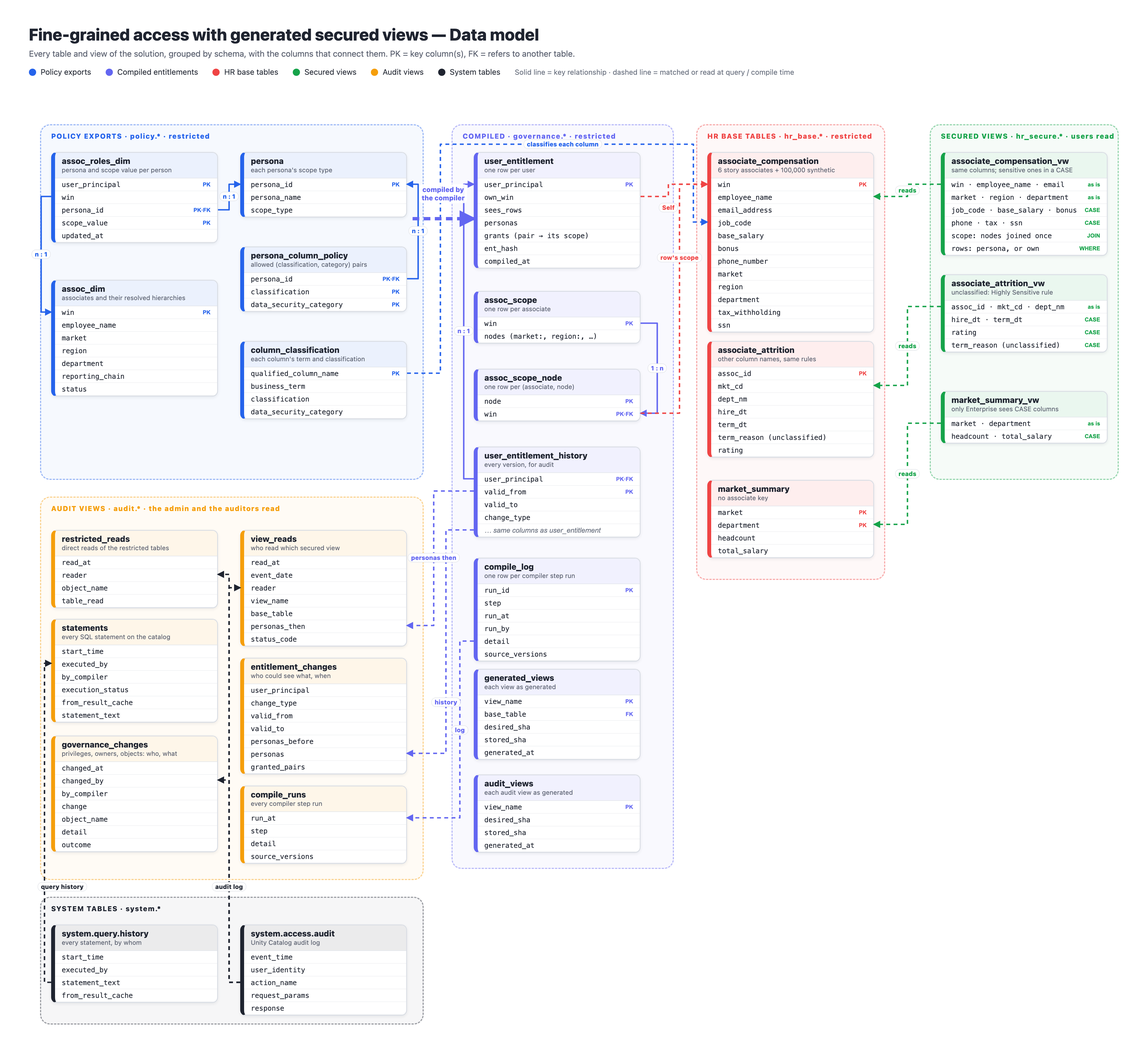
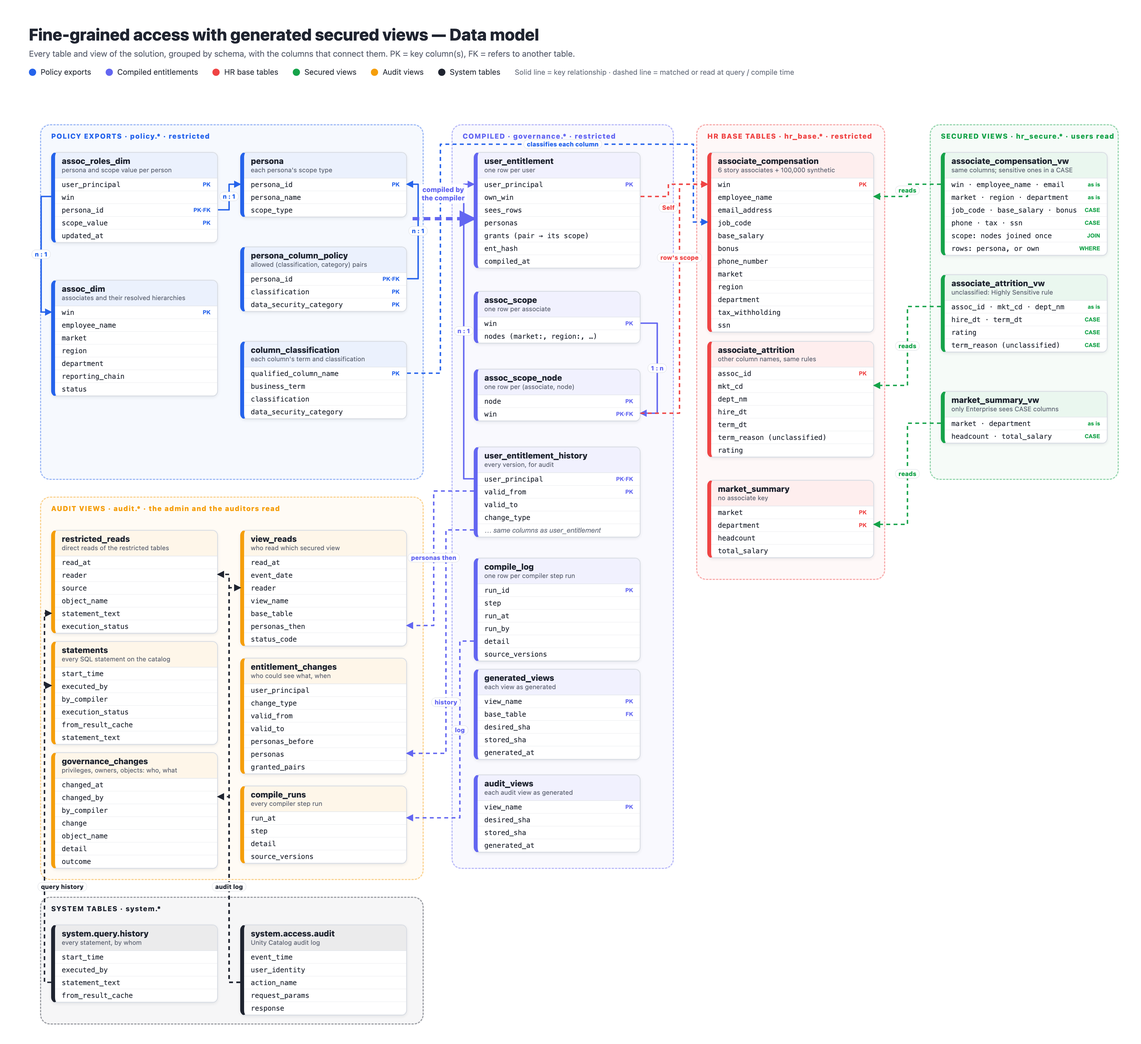
Audit layer: code-review fixes, docs, diagrams, test record
- Audit views: string and number literals in statement text and error
  messages are redacted by default (new setting audit_statement_text);
  query-history matching ignores backticks and needs catalog.schema;
  restricted_reads leaves out queries of the audit schema; NULL-safe
  exclusions; personas_then is the last entitlement compiled before the read.
- deploy stops with the GRANTs a metastore admin must run when the
  compiler cannot read the system tables.
- A local `all` run still runs the guard when an earlier step fails.
- tests/test_audit.py: comment markers, a redaction check and a negative
  check (15 checks with a Real-Time warehouse).
- Docs, diagrams 01/02, config.example.json; Appendix E test record.

Changed region(s): [[0.0312, 0.5606, 0.1559, 0.8408]]

diff --git a/compiler/fgac_compiler.py b/compiler/fgac_compiler.py
@@ -404,19 +404,30 @@ CHANGE_ACTIONS = ("updatePermissions", "createCatalog", "updateCatalog", "delete
 def audit_views(me):
     """{view: SQL} for the audit schema. `me` is the compiler's identity (its own changes are flagged by_compiler).
     Every view keeps the system table's date (event_date) or time column: filter on it, the audit log is large."""
-    c = lit(C)
+    c, m = lit(C), lit(me)
     secure, restricted = f"{c}.{SECURE}.", [f"{c}.{s}." for s in (BASE, config.EXPORTS, config.GOV)]
     # a read: Unity Catalog logs a READ snapshot when the warehouse fetches a table's credentials, with the securable the
-    # query named (the secured view, or the table itself when someone reads it directly). A result-cache answer reads
-    # no table, and a repeated read can reuse the credentials fetched shortly before: the query history (statements)
-    # has every statement
+    # query named (the secured view, or the table itself when someone reads it directly), however the query spelled
+    # it. A result-cache answer reads no table, and a repeated read can reuse the credentials fetched shortly before:
+    # the query history (statements) has every statement that names the catalog
     read = f"""FROM system.access.audit a
 LATERAL VIEW explode(from_json(a.request_params.securables, 'ARRAY<STRUCT<type: STRING, full_name: STRING>>')) s AS o
 WHERE a.service_name = 'unityCatalog' AND a.action_name = 'metadataAndPermissionsSnapshot'
   AND a.request_params.operation = 'READ' AND contains(a.request_params.securables, '{c}.')"""
+    # the query history only has the text: a statement names the catalog as catalog.schema (backticks removed). One
+    # that relies on USE CATALOG or the editor's catalog picker is not matched (its reads are in the audit log anyway)
+    norm = "replace(lower(h.statement_text), '`', '')"
+    names_catalog = f"contains({norm}, '{c.lower()}.')"
+
+    def text(col):
+        """SQL text and error messages can hold values someone typed (an INSERT's literals, a WHERE ssn = '...'
+        probe): unless audit_statement_text is "full", string and number literals are replaced by ?"""
+        if config.AUDIT_STATEMENT_TEXT == "full":
+            return col
+        return f"""regexp_replace(regexp_replace({col}, r"'([^']|'')*'", "'?'"), r"\\b[0-9]+([.][0-9]+)?\\b", "?")"""
     actions = ", ".join(f"'{x}'" for x in CHANGE_ACTIONS)
     views = {
-        # with the personas the reader held at that moment (the entitlement history version open then)
+        # with the personas the reader held then: the last entitlement version compiled before the read
         "view_reads": f"""SELECT r.read_at, r.event_date, r.reader, r.view_name, r.base_table, h.personas AS personas_then,
        r.status_code, r.workspace_id, r.source_ip_address, r.user_agent, r.request_id
 FROM (SELECT a.event_time AS read_at, a.event_date, a.user_identity.email AS reader, o.full_name AS view_name,
@@ -424,30 +435,31 @@ FROM (SELECT a.event_time AS read_at, a.event_date, a.user_identity.email AS rea
              a.workspace_id, a.source_ip_address, a.user_agent, a.request_id
       {read}
         AND startswith(o.full_name, '{secure}')) r
-LEFT JOIN {G}.user_entitlement_history h ON h.user_principal = lower(r.reader)
-  AND r.read_at >= h.valid_from AND (h.valid_to IS NULL OR r.read_at < h.valid_to)""",
-        # anyone but the compiler, from both records: the audit log's reads, and every statement (also refused ones)
-        # that names a restricted schema
+LEFT JOIN {G}.user_entitlement_history h ON h.user_principal = lower(r.reader) AND h.valid_from <= r.read_at
+QUALIFY row_number() OVER (PARTITION BY r.request_id, r.view_name ORDER BY h.valid_from DESC NULLS LAST) = 1""",
+        # anyone but the compiler, from both records: the audit log's reads, and every statement (refused ones too)
+        # that names a restricted schema; the auditors' own queries of the audit views are left out
         "restricted_reads": f"""SELECT a.event_time AS read_at, a.event_date, a.user_identity.email AS reader, 'audit log' AS source,
        o.full_name AS object_name, CAST(NULL AS STRING) AS statement_text, CAST(NULL AS STRING) AS execution_status,
        a.workspace_id, a.request_id AS id
 {read}
   AND ({' OR '.join(f"startswith(o.full_name, '{r}')" for r in restricted)})
-  AND a.user_identity.email <> '{lit(me)}'
+  AND a.user_identity.email IS DISTINCT FROM '{m}'
 UNION ALL
-SELECT h.start_time, CAST(h.start_time AS DATE), h.executed_by, 'query history', CAST(NULL AS STRING), h.statement_text,
-       h.execution_status, h.workspace_id, h.statement_id
+SELECT h.start_time, CAST(h.start_time AS DATE), h.executed_by, 'query history', CAST(NULL AS STRING),
+       {text('h.statement_text')}, h.execution_status, h.workspace_id, h.statement_id
 FROM system.query.history h
-WHERE h.executed_by <> '{lit(me)}'
-  AND ({' OR '.join(f"contains(lower(h.statement_text), '{r.lower()}')" for r in restricted)})""",
-        "statements": f"""SELECT h.start_time, h.end_time, h.executed_by, h.executed_as, h.executed_by = '{lit(me)}' AS by_compiler,
-       h.statement_type, h.execution_status, h.error_message, h.from_result_cache, h.cache_origin_statement_id,
-       h.produced_rows, h.total_duration_ms, h.compute.warehouse_id AS warehouse_id, h.workspace_id,
-       h.client_application, h.statement_id, h.statement_text
+WHERE h.executed_by IS DISTINCT FROM '{m}'
+  AND ({' OR '.join(f"contains({norm}, '{r.lower()}')" for r in restricted)})
+  AND NOT contains({norm}, '{c.lower()}.{AUDIT}.')""",
+        "statements": f"""SELECT h.start_time, h.end_time, h.executed_by, h.executed_as, coalesce(h.executed_by = '{m}', false) AS by_compiler,
+       h.statement_type, h.execution_status, {text('h.error_message')} AS error_message, h.from_result_cache,
+       h.cache_origin_statement_id, h.produced_rows, h.total_duration_ms, h.compute.warehouse_id AS warehouse_id,
+       h.workspace_id, h.client_application, h.statement_id, {text('h.statement_text')} AS statement_text
 FROM system.query.history h
-WHERE contains(lower(h.statement_text), '{c.lower()}')""",
-        "governance_changes": f"""SELECT changed_at, event_date, changed_by, changed_by = '{lit(me)}' AS by_compiler, change, object_name, detail,
-       CASE WHEN status_code = 200 THEN 'done' WHEN status_code IN (401, 403) THEN 'denied' ELSE 'failed' END AS outcome,
+WHERE {names_catalog}""",
+        "governance_changes": f"""SELECT changed_at, event_date, changed_by, coalesce(changed_by = '{m}', false) AS by_compiler, change, object_name,
+       detail, CASE WHEN status_code = 200 THEN 'done' WHEN status_code IN (401, 403) THEN 'denied' ELSE 'failed' END AS outcome,
        error_message, workspace_id, source_ip_address, request_id
 FROM (
   SELECT a.event_time AS changed_at, a.event_date, a.user_identity.email AS changed_by, a.response.status_code,
@@ -470,7 +482,7 @@ FROM (
           AND NOT (action_name = 'createStagingTable' AND response.status_code = 200)) a)
 WHERE (object_name = '{c}' OR startswith(object_name, '{c}.'))
   -- the compiler's own data writes and staging tables are in governance.compile_log; its grants, owners and views stay
-  AND NOT (changed_by = '{lit(me)}' AND (change = 'alter or write' OR contains(object_name, '._stage_')))""",
+  AND NOT (coalesce(changed_by = '{m}', false) AND (change = 'alter or write' OR contains(object_name, '._stage_')))""",
         "entitlement_changes": f"""SELECT user_principal, change_type, valid_from, valid_to, valid_to IS NULL AS is_current,
        personas, lag(personas) OVER w AS personas_before,
        array_sort(map_keys(grants)) AS granted_pairs, lag(array_sort(map_keys(grants))) OVER w AS granted_pairs_before,
@@ -487,7 +499,7 @@ def generate_audit():
     """The audit schema holds exactly the audit views, each as generated (recreated when its SQL changes or it was
     edited); the auditors may read it. A view that can't be created (for example the compiler can't read a system
     table) is reported and the job fails; the others are in place."""
-    t0, versions = time.time(), source_versions()
+    t0 = time.time()
     ensure_tables()
     me = q("SELECT session_user()")[0][0]
     q(f"""CREATE SCHEMA IF NOT EXISTS {C}.{AUDIT}
@@ -523,7 +535,7 @@ COMMENT 'Generated audit views over the system tables and the governance history
     for v, kind in q(f"SELECT table_name, table_type FROM {C}.information_schema.tables WHERE table_schema = '{AUDIT}'"):
         if kind == "VIEW" and v in want:
             continue
-        what = {"VIEW": "VIEW", "METRIC_VIEW": "VIEW", "MATERIALIZED_VIEW": "MATERIALIZED VIEW"}.get(kind, "TABLE")
+        what = {"VIEW": "VIEW", "METRIC_VIEW": "VIEW", "MATERIALIZED_VIEW": "MATERIALIZED VIEW", "STREAMING_TABLE": "TABLE"}.get(kind, "TABLE")
         if drop(f"DROP {what} {C}.{AUDIT}.`{v}`", v, failed, AUDIT, "audit_views"):
             print(f"audit: WARNING dropped {AUDIT}.{v} ({kind}): only the audit views may be in {AUDIT}")
     for f, in q(f"SELECT specific_name FROM {C}.information_schema.routines WHERE specific_schema = '{AUDIT}'"):
@@ -545,7 +557,7 @@ COMMENT 'Generated audit views over the system tables and the governance history
             except RuntimeError as err:
                 failed.append(f"grant to {who}")
                 print(f"audit: ERROR could not grant {who} read on {AUDIT}: {' '.join(str(err).split())[:160]}")
-    log("audit", t0, f"{len(want)} audit views, {made} (re)created" + (f", FAILED {failed}" if failed else ""), versions)
+    log("audit", t0, f"{len(want)} audit views, {made} (re)created" + (f", FAILED {failed}" if failed else ""), {})
     print(f"audit: {len(want)} audit views, {made} (re)created ({time.time() - t0:.0f}s)")
     if failed:
         raise RuntimeError(f"audit views not (re)created: {failed}")
@@ -647,11 +659,16 @@ if __name__ == "__main__":
     ap.add_argument("--as", dest="who", default=None, help="run as this principal (locally: compiler)")
     a = ap.parse_args()
     w = dbsql.client(a.who)
-    if a.step in ("entitlements", "all"):
-        compile_entitlements()
-    if a.step in ("views", "all"):
-        generate_views()
-    if a.step in ("audit", "all"):
-        generate_audit()
-    if a.step in ("guard", "all"):
-        guard()
+    errors = []
+    for name, fn in (("entitlements", compile_entitlements), ("views", generate_views), ("audit", generate_audit),
+                     ("guard", guard)):
+        if a.step in (name, "all"):
+            try:
+                fn()
+            except RuntimeError as err:  # as in the job (run_if: ALL_DONE): the guard still runs, then the run fails
+                if a.step != "all":
+                    raise
+                errors.append(f"{name}: {err}")
+                print(f"{name}: FAILED: {err}")
+    if errors:
+        raise RuntimeError(f"{len(errors)} step(s) failed: {errors}")

diff --git a/tests/test_audit.py b/tests/test_audit.py
@@ -54,24 +54,26 @@ def refused(who, sql):
 
 
 def main():
-    tag = random.randint(10**8, 10**9 - 1)  # makes every statement unique (no result cache) and findable
+    tag = random.randint(10**8, 10**9 - 1)  # makes every statement unique (no result cache)
+    # findable in the query history: a comment survives the redaction of literals (audit_statement_text)
+    mark, mark_rt = f"/* audit_test_t{tag} */", f"/* audit_test_r{tag} */"
     reader, intruder, grantee = (config.app_id(k) for k in (READER, INTRUDER, GRANTEE))
     t0 = a("SELECT CAST(current_timestamp() - INTERVAL 1 MINUTE AS STRING)")[0][0]
     since = f"TIMESTAMP '{t0}'"
     print(f"tag {tag}; events from {t0}")
 
     # 1. reads of a secured view
-    dbsql.run(dbsql.client(READER), f"SELECT count(*), sum(bonus) FROM {V} WHERE win <> {tag}", quiet=True)
+    dbsql.run(dbsql.client(READER), f"SELECT {mark} count(*), sum(bonus) FROM {V} WHERE win <> {tag}", quiet=True)
     rt = config.RT_WAREHOUSE_NAME and any(x.name == config.RT_WAREHOUSE_NAME for x in admin.warehouses.list())
     if rt:
-        on(config.RT_WAREHOUSE_NAME, READER, f"SELECT count(*), sum(bonus) FROM {V} WHERE win <> {tag + 1}")
+        on(config.RT_WAREHOUSE_NAME, READER, f"SELECT {mark_rt} count(*), sum(bonus) FROM {V} WHERE win <> {tag + 1}")
     # 2. refused attempts
-    assert refused(INTRUDER, f"SELECT count(*) FROM {B}.associate_compensation WHERE win <> {tag}"), "base table readable"
+    assert refused(INTRUDER, f"SELECT {mark} count(*) FROM {B}.associate_compensation WHERE win <> {tag}"), "base table readable"
     probe = f"audit_probe_{tag}"
     assert refused(INTRUDER, f"CREATE VIEW {S}.{probe} AS SELECT 1 AS x"), "a user could create a view"
     assert refused(INTRUDER, f"CREATE TABLE {S}.{probe}_copy AS SELECT * FROM {V}"), "a user could copy a view"
     # 3. the admin: a direct read, and a stray grant that the guard takes back
-    a(f"SELECT count(*) FROM {B}.associate_compensation WHERE win <> {tag}")
+    a(f"SELECT {mark} count(*) FROM {B}.associate_compensation WHERE win <> {tag}")
     a(f"GRANT SELECT ON TABLE {G}.compile_log TO `{grantee}`")
     subprocess.run([sys.executable, "-I", os.path.join(os.path.dirname(os.path.abspath(__file__)), "..", "compiler",
                     "fgac_compiler.py"), "guard", "--as", "compiler"], check=True, stdout=subprocess.DEVNULL)
@@ -85,10 +87,10 @@ def main():
               AND to_json(personas_then) = '{personas}'""",
         "statements: the same read, with its SQL text and the user": f"""
             SELECT count(*) FROM {A}.statements WHERE start_time >= {since} AND executed_by = '{reader}'
-              AND contains(statement_text, 'win <> {tag}') AND execution_status = 'FINISHED' AND NOT by_compiler""",
+              AND contains(statement_text, 'audit_test_t{tag}') AND execution_status = 'FINISHED' AND NOT by_compiler""",
         f"statements: {INTRUDER}'s refused read of the base table": f"""
             SELECT count(*) FROM {A}.statements WHERE start_time >= {since} AND executed_by = '{intruder}'
-              AND contains(statement_text, '{config.BASE}.associate_compensation WHERE win <> {tag}')
+              AND contains(statement_text, 'audit_test_t{tag}') AND contains(statement_text, '{config.BASE}.associate_compensation')
               AND execution_status = 'FAILED'""",
         f"governance_changes: {INTRUDER}'s refused attempt to create a view": f"""
             SELECT count(*) FROM {A}.governance_changes WHERE {day} AND changed_at >= {since} AND changed_by = '{intruder}'
@@ -104,10 +106,10 @@ def main():
               AND contains(detail, 'remove') AND outcome = 'done'""",
         "restricted_reads: the admin's direct read of a base table": f"""
             SELECT count(*) FROM {A}.restricted_reads WHERE {day} AND read_at >= {since} AND reader = '{config.ADMIN}'
-              AND (object_name = '{B}.associate_compensation' OR contains(statement_text, 'win <> {tag}'))""",
+              AND (object_name = '{B}.associate_compensation' OR contains(statement_text, 'audit_test_t{tag}'))""",
         f"restricted_reads: {INTRUDER}'s refused read of the base table": f"""
             SELECT count(*) FROM {A}.restricted_reads WHERE {day} AND read_at >= {since} AND reader = '{intruder}'
-              AND contains(statement_text, 'win <> {tag}') AND execution_status = 'FAILED'""",
+              AND contains(statement_text, 'audit_test_t{tag}') AND execution_status = 'FAILED'""",
         f"governance_changes: {INTRUDER}'s refused copy of the view into a table": f"""
             SELECT count(*) FROM {A}.governance_changes WHERE {day} AND changed_at >= {since} AND changed_by = '{intruder}'
               AND object_name = '{S}.{probe}_copy' AND outcome = 'denied'""",
@@ -118,10 +120,15 @@ def main():
             SELECT count(*) FROM {A}.entitlement_changes WHERE user_principal = '{reader}' AND is_current
               AND to_json(personas) = '{personas}'""",
     }
+    if config.AUDIT_STATEMENT_TEXT == "redacted":
+        checks["statements: literals are redacted (the number in the read's WHERE is shown as ?)"] = f"""
+            SELECT count(*) FROM {A}.statements WHERE start_time >= {since} AND executed_by = '{reader}'
+              AND contains(statement_text, 'audit_test_t{tag}') AND contains(statement_text, 'win <> ?')
+              AND NOT contains(statement_text, 'win <> {tag}')"""
     if rt:
         checks["statements: the read on the Real-Time warehouse"] = f"""
             SELECT count(*) FROM {A}.statements s WHERE start_time >= {since} AND executed_by = '{reader}'
-              AND contains(statement_text, 'win <> {tag + 1}') AND warehouse_id = '{
+              AND contains(statement_text, 'audit_test_r{tag}') AND warehouse_id = '{
               next(x.id for x in admin.warehouses.list() if x.name == config.RT_WAREHOUSE_NAME)}'"""
         checks[f"view_reads: both reads by {READER} (SQL warehouse and Real-Time)"] = f"""
             SELECT CASE WHEN count(*) >= 2 THEN 1 ELSE 0 END FROM {A}.view_reads WHERE {day} AND read_at >= {since}
@@ -135,6 +142,12 @@ def main():
             break
         print(f"    {len(found)} of {len(checks)} found after {(time.time() - start) / 60:.0f} min; waiting for the system tables")
         time.sleep(60)
+    # and what must NOT be there: a read through a secured view is not a direct read of a restricted table
+    stray = int(a(f"""SELECT count(*) FROM {A}.restricted_reads WHERE {day} AND read_at >= {since}
+                       AND reader = '{reader}'""")[0][0])
+    checks[f"restricted_reads: nothing for {READER} (only secured view reads)"] = None
+    if stray == 0:
+        found[f"restricted_reads: nothing for {READER} (only secured view reads)"] = time.time() - start
     failures = 0
     for name in checks:
         ok = name in found

diff --git a/poc.py b/poc.py
@@ -161,9 +161,18 @@ def ensure_grants():
                   f"GRANT USE SCHEMA, SELECT ON SCHEMA system.query TO `{comp}`"]:
             q(s)
         print("    the compiler may read system.access (audit log) and system.query (query history), for the audit views")
-    except RuntimeError as e:
-        print(f"    WARNING: could not let the compiler read the system tables ({str(e).splitlines()[0][:120]}): a metastore"
-              " admin must run these grants, or the audit step fails (Runbook section 6)")
+    except RuntimeError as e:  # granted earlier by a metastore admin? Then nothing is missing
+        try:
+            cc = dbsql.client(config.COMPILER)
+            for t in ("system.access.audit", "system.query.history"):
+                dbsql.run(cc, f"SELECT 1 FROM {t} LIMIT 0", quiet=True)
+            print("    the compiler can already read system.access and system.query (granted by a metastore admin)")
+        except RuntimeError:
+            sys.exit(f"The compiler cannot read the system tables, and you cannot grant it ({' '.join(str(e).split())[:160]}).\n"
+                     f"A metastore admin must run, once:\n  GRANT USE CATALOG ON CATALOG system TO `{comp}`;\n"
+                     f"  GRANT USE SCHEMA, SELECT ON SCHEMA system.access TO `{comp}`;\n"
+                     f"  GRANT USE SCHEMA, SELECT ON SCHEMA system.query TO `{comp}`;\n"
+                     "then run deploy again. Without them the audit step fails on every compile.")
 
 
 def compile_now():

diff --git a/config.py b/config.py
@@ -42,6 +42,11 @@ ETL_PRINCIPALS = CFG.get("etl_principals", [])
 # who may read the audit views (schema audit): users, groups, or service principal application IDs. The admin always
 # can. They get USE SCHEMA and SELECT on the audit schema only: no HR data, no entitlement tables.
 AUDITORS = CFG.get("auditors", [])
+# the SQL text and error messages in the audit views (statements, restricted_reads): "redacted" (the default: string and
+# number literals become ?, so values someone typed, such as an INSERT's or a WHERE ssn = '...', never reach the
+# auditors) or "full"
+AUDIT_STATEMENT_TEXT = CFG.get("audit_statement_text", "redacted")
+assert AUDIT_STATEMENT_TEXT in ("redacted", "full"), f"audit_statement_text must be redacted or full, not {AUDIT_STATEMENT_TEXT}"
 # assoc_dim.status values of associates who have left: their records stay governed by their last hierarchy, but their
 # own login loses every entitlement, even if assoc_roles_dim still lists personas for it (fails closed)
 TERMINATED_STATUSES = CFG.get("terminated_statuses", ["Terminated"])

diff --git a/docs/HOW_TO_RUN.md b/docs/HOW_TO_RUN.md
@@ -3,7 +3,7 @@
 | | |
 | :---- | :---- |
 | What | Build, demo, test and remove the proof of concept: fine-grained access (rows and columns) on Databricks through generated secured views |
-| Tested | Deployed from nothing from this repository and run as printed, in a Databricks test workspace with synthetic data (Appendix E) |
+| Tested | Deployed from nothing from this repository and run as printed (section 4.10, the audit trail, through its automated test), in a Databricks test workspace with synthetic data (Appendix E) |
 | Scope | Functional and security tests (section 4, Appendix A); an optional large synthetic data set (Appendix F) |
 
 ## 0\. Before you start
@@ -64,7 +64,7 @@ Plus: the serverless SQL warehouse `fgac-poc`; the Lakehouse Real-Time warehouse
 | Workspace admin | create the service principals and the SQL warehouse |
 | Account admin (account login) | let you deploy jobs that run as the compiler; delete the principals in the account on removal |
 | `CREATE CATALOG` on the metastore | the deploy creates one catalog |
-| Metastore admin (or the owner of the `system` catalog) | let the compiler read the system tables `system.access` (audit log) and `system.query` (query history) for the audit views; without it the deploy prints a warning and the job's `audit` task fails (section 6) |
+| Metastore admin (or the owner of the `system` catalog) | let the compiler read the system tables `system.access` (audit log) and `system.query` (query history) for the audit views; if you can't grant this and the compiler can't already read them, the deploy stops and prints the three GRANTs a metastore admin must run (section 6) |
 | Serverless SQL and serverless jobs | everything runs on serverless |
 
 ### 1.2 Local tools
@@ -121,6 +121,7 @@ cp config.example.json config.json
 | `unclassified_rule` | `highly_sensitive` (the default: anyone with Highly Sensitive access sees unclassified columns) or `restricted` (never shown) | `highly_sensitive` |
 | `etl_principals` | optional: the identities that load data (ETL, the policy export job); the compiler's guard leaves their privileges alone | not set |
 | `auditors` | optional: who may read the audit views (users, groups, or service principal application IDs); they get USE SCHEMA and SELECT on `audit` only, and the guard revokes anything else there. You, the admin, can always read them | `[]` (only you) |
+| `audit_statement_text` | optional: `redacted` (string and number values in the SQL text and error messages of `statements` and `restricted_reads` are shown as `?`, so values someone typed never reach the auditors) or `full` | `redacted` |
 | `terminated_statuses` | the `assoc_dim.status` values of people who have left: their own login gets no entitlement (section 4.8) | `["Terminated"]` |
 | `large_data` | the optional large data set (Appendix F): its catalog, number of associates, and the warehouse that builds it | see `config.example.json` |
 | `scope_check` | how a view checks a persona's scope: `join` (the design: the person's nodes joined once per query to `governance.assoc_scope_node`) or `array` (an alternative form with the same answers) | `join` |
@@ -134,7 +135,7 @@ python3 -I poc.py status
 python3 -I poc.py deploy --verify
 ```
 
-It creates, in order: the SQL warehouse; the ten service principals (nine test users and the compiler) and their secrets; the catalog with the HR base tables and the policy exports (`setup/01_catalog_and_hr_data.sql`, `setup/02_policy_exports.sql`); the grants (the compiler owns everything; `account users` may read `hr_secure` only; the compiler may read the system tables `system.access` and `system.query`, for the audit views); the two jobs (Databricks Asset Bundle); then the first compile, through the compiler job, whose steps are `entitlements`, `views`, `audit` (the audit views in `audit`), `guard` and `invariants`. `--verify` then runs the test suites of Appendix A.
+It creates, in order: the SQL warehouse; the ten service principals (nine test users and the compiler) and their secrets; the catalog with the HR base tables and the policy exports (`setup/01_catalog_and_hr_data.sql`, `setup/02_policy_exports.sql`); the grants (the compiler owns everything; `account users` may read `hr_secure` only; the compiler may read the system tables `system.access` and `system.query`, for the audit views; if that grant fails and the compiler can't already read them, the deploy stops here and prints the GRANTs a metastore admin must run); the two jobs (Databricks Asset Bundle); then the first compile, through the compiler job, whose steps are `entitlements`, `views`, `audit` (the audit views in `audit`), `guard` and `invariants`. `--verify` then runs the test suites of Appendix A.
 
 Expected (about 11 minutes from nothing), ending with:
 
@@ -1255,7 +1256,7 @@ Expected: one row per (reader, view, personas held then), in the order of sectio
 | you | associate\_compensation\_vw | ["SELF","VP100"] | … | (4.3.8, and 4.4 on Real-Time) |
 | the application ID of `fgac-mm_market_abc` | associate\_compensation\_vw | ["SELF","VP100"] | … | (4.9, attempts 6 and 7) |
 
-`personas_then` comes from the entitlement history at the moment of the read, so the same reader shows a different persona after every `act-as`. `view_reads` holds the reads as Unity Catalog logs them: a READ event each time the warehouse fetches a table's credentials. A read that reuses credentials fetched shortly before, or an answer from the result cache, is not logged again, so `reads` is lower than the number of queries you ran. The record of every statement is `statements` (query D; a cached answer has `from_result_cache` = `true`).
+`personas_then` comes from the entitlement history: the last version compiled before the read, so the same reader shows a different persona after every `act-as`. `view_reads` holds the reads as Unity Catalog logs them: a READ event each time the warehouse fetches a table's credentials. A read that reuses credentials fetched shortly before, or an answer from the result cache, is not logged again, so `reads` is lower than the number of queries you ran. The record of every statement is `statements` (query D; a cached answer has `from_result_cache` = `true`).
 
 **B. Changes to the catalog by anyone but the compiler** (privileges, owners, objects created or dropped), and the guard's repairs:
 
@@ -1329,9 +1330,9 @@ WHERE start_time >= current_timestamp() - INTERVAL 3 HOURS AND execution_status 
 ORDER BY start_time;
 ```
 
-Expected, among the rows: the refused attempts of 4.9 (1–5 and 8–10), each with `executed_by` the application ID of `fgac-mm_market_abc`, its SQL and its error (`INSUFFICIENT_PERMISSIONS ... USE SCHEMA`, `PERMISSION_DENIED ... CREATE TABLE`, `UNSUPPORTED_FEATURE.TIME_TRAVEL`, `PERMISSION_DENIED ... MANAGE`).
+Expected, among the rows: the refused attempts of 4.9 (1–5 and 8–10), each with `executed_by` the application ID of `fgac-mm_market_abc`, its SQL (string and number values shown as `?`, for example `WHERE base_salary = ?`: `audit_statement_text` is `redacted` by default) and its error (`INSUFFICIENT_PERMISSIONS ... USE SCHEMA`, `PERMISSION_DENIED ... CREATE TABLE`, `UNSUPPORTED_FEATURE.TIME_TRAVEL`, `PERMISSION_DENIED ... MANAGE`).
 
-Two more audit views: `restricted_reads` (anyone but the compiler reading `hr_base`, `policy` or `governance` directly, from both sources: the audit log's READ events, and every statement that names those schemas, refused ones included; here you, the admin, for example in Appendix C, and `fgac-mm_market_abc`'s refused attempts 1–3 of 4.9, with `execution_status` `FAILED`) and `compile_runs` (the compiler's runs, as in Appendix C5).
+Two more audit views: `restricted_reads` (anyone but the compiler reading `hr_base`, `policy` or `governance` directly, from both sources: the audit log's READ events, and every statement that names those schemas, refused ones included, but not the queries of the audit views themselves; here you, the admin, for example in Appendix C, and `fgac-mm_market_abc`'s refused attempts 1–3 of 4.9, with `execution_status` `FAILED`) and `compile_runs` (the compiler's runs, as in Appendix C5).
 
 Say: the audit trail answers who read which view, with which personas, and who tried to change what, without any extra logging: it is built on the platform's own audit log and query history, and the auditors read it without seeing any HR data.
 
@@ -1394,7 +1395,7 @@ Expected (about 2–3 minutes): one `===` block per part, then `Destroy finished
 | A query result hasn't changed after a policy change | the compiler run started by the change hasn't finished (a change that lands during a run waits for the next one) | wait a minute and run the query again |
 | Your login sees nothing in the views | your login holds no persona (that is the default) | `python3 -I poc.py act-as <persona>` |
 | A view fails with `UNRESOLVED_COLUMN` | a base table column was dropped since the last compile (the view fails closed) | `python3 -I poc.py run-job compiler` |
-| The job fails in the `audit` task with `audit.<view> could not be (re)created` and a message about `system` | the compiler can't read the system tables (the deploy printed a WARNING in `grants and ownership`) | a metastore admin runs, in the SQL editor: `` GRANT USE CATALOG ON CATALOG system TO `<compiler application ID>`; `` `` GRANT USE SCHEMA, SELECT ON SCHEMA system.access TO `<compiler application ID>`; `` `` GRANT USE SCHEMA, SELECT ON SCHEMA system.query TO `<compiler application ID>`; `` (the ID is `compiler` in `~/.fgac_principals.json`), then `python3 -I poc.py run-job compiler`. The other steps are not affected: entitlements and views are compiled before it |
+| The deploy stops in `grants and ownership` with `The compiler cannot read the system tables`, or the job fails in the `audit` task with `audit.<view> could not be (re)created` and a message about `system` | the compiler can't read the system tables, and you can't grant it (or the grant was revoked later) | a metastore admin runs, in the SQL editor: `` GRANT USE CATALOG ON CATALOG system TO `<compiler application ID>`; `` `` GRANT USE SCHEMA, SELECT ON SCHEMA system.access TO `<compiler application ID>`; `` `` GRANT USE SCHEMA, SELECT ON SCHEMA system.query TO `<compiler application ID>`; `` (the ID is `compiler` in `~/.fgac_principals.json`), then `python3 -I poc.py run-job compiler`. The other steps are not affected: entitlements and views are compiled before it |
 | The audit views show nothing of the last few minutes | the system tables arrive with a delay: the query history after about 8–9 minutes (`statements`, the query-history rows of `restricted_reads`), the audit log after about 16–22 minutes (`view_reads`, `governance_changes`) | wait and run the query again (section 4.10: about 25 minutes after the events) |
 | `INSUFFICIENT_PERMISSIONS` on `audit` for an auditor | the auditor is not in `auditors`, or the compiler hasn't run since it was added | add it to `auditors` in `config.json`, `python3 -I poc.py deploy` (uploads the setting), then `python3 -I poc.py run-job compiler` |
 | The job fails in the `invariants` task | a repair could not finish (for example a view that can't be regenerated, which is then dropped), or a compile is behind | the task output names it; fix the cause and `python3 -I poc.py run-job compiler`. An edited view or a stray grant alone does not fail the job: the run repairs it first and logs it in `governance.compile_log` |
@@ -1438,7 +1439,7 @@ python3 -I tests/test_audit.py
 - the policy exports are consistent: no role row without a login, one `win` per login, one scope type per persona, no policy row without a classification or a category (the compiler grants nothing from a row that breaks these, and this invariant names it so the export gets fixed);  
 - the entitlements cover exactly the users in the exports (by the same rules), minus the people who have left; nobody who has left holds an entitlement; a compile ran in the last 24 hours; every export change was compiled within 30 minutes.
 
-**`test_audit.py`: the audit trail.** It makes things happen, then finds each of them in the audit views, as the admin: `people_mgr` reads `associate_compensation_vw` (and again on the Real-Time warehouse, if there is one); `mm_market_abc` tries to read a base table and to create a view in `hr_secure` (both refused); `mm_market_abc` also tries to copy the view into a table of its own in `hr_secure` (refused); you read a base table directly and grant `no_persona` SELECT on `governance.compile_log`, which the guard (run by the test) revokes. Each statement carries a random number, so it is unique and never served from the result cache. Then it checks every minute until all are found, or `AUDIT_WAIT_MINUTES` (default 30) have passed. Expected: 11 `PASS` lines (13 with a Real-Time warehouse), each with the minutes it took (on 2026-11-05: the query history after 9 minutes, the audit log after 22), and `0 failure(s)`:
+**`test_audit.py`: the audit trail.** It makes things happen, then finds each of them in the audit views, as the admin: `people_mgr` reads `associate_compensation_vw` (and again on the Real-Time warehouse, if there is one); `mm_market_abc` tries to read a base table and to create a view in `hr_secure` (both refused); `mm_market_abc` also tries to copy the view into a table of its own in `hr_secure` (refused); you read a base table directly and grant `no_persona` SELECT on `governance.compile_log`, which the guard (run by the test) revokes. Each statement carries a random number, so it is unique and never served from the result cache, and a comment `/* audit_test_t<number> */`, which survives the redaction of literals and makes it findable. Then it checks every minute until all are found, or `AUDIT_WAIT_MINUTES` (default 30) have passed, and last that `people_mgr`'s reads through the view are not in `restricted_reads`. Expected: 13 `PASS` lines (15 with a Real-Time warehouse), each with the minutes it took (in our test: the query history after about 9 minutes, the audit log after about 22), and `0 failure(s)` (with `audit_statement_text: full`, the redaction check is left out: one line fewer):
 
 ```text
 PASS  view_reads: people_mgr read associate_compensation_vw, with the personas they held then
@@ -1452,8 +1453,10 @@ PASS  restricted_reads: mm_market_abc's refused read of the base table
 PASS  governance_changes: mm_market_abc's refused copy of the view into a table
 PASS  compile_runs: the guard's run that revoked the grant
 PASS  entitlement_changes: people_mgr's current entitlement
+PASS  statements: literals are redacted (the number in the read's WHERE is shown as ?)
 PASS  statements: the read on the Real-Time warehouse
 PASS  view_reads: both reads by people_mgr (SQL warehouse and Real-Time)
+PASS  restricted_reads: nothing for people_mgr (only secured view reads)
 ```
 
 The last two run only when there is a Real-Time warehouse.
@@ -1721,7 +1724,7 @@ Expected: 6 rows, all `VIEW`: `compile_runs`, `entitlement_changes`, `governance
 | :---- | :---- | :---- | :---- |
 | `view_reads` | read of a secured view as Unity Catalog logs it (a READ event when the warehouse fetches a base table's credentials; a read that reuses recent credentials, or a cached answer, is not logged again) | the Unity Catalog audit log | `read_at`, `event_date`, `reader`, `view_name`, `base_table`, `personas_then`, `status_code` |
 | `restricted_reads` | direct read of `hr_base`, `policy` or `governance` by anyone but the compiler: an audit-log READ event, or a statement that names one of those schemas (refused ones included) | the Unity Catalog audit log and the query history (`UNION ALL`) | `read_at`, `event_date`, `reader`, `source` (`audit log` or `query history`), `object_name` (audit-log rows), `statement_text` and `execution_status` (query-history rows), `workspace_id`, `id` |
-| `statements` | SQL statement that names the catalog | the query history | `start_time`, `executed_by`, `by_compiler`, `execution_status`, `error_message`, `from_result_cache`, `warehouse_id`, `statement_text` |
+| `statements` | SQL statement that names the catalog as `catalog.schema.` (with or without backticks; one relying on `USE CATALOG` or the editor's catalog picker is not matched); string and number literals in its text and error shown as `?` unless `audit_statement_text` is `full` | the query history | `start_time`, `executed_by`, `by_compiler`, `execution_status`, `error_message`, `from_result_cache`, `warehouse_id`, `statement_text` |
 | `governance_changes` | privilege, owner, create (a refused copy into a table, `createStagingTable`, included), drop or alter on the catalog or its objects (the compiler's own data writes and staging tables left out) | the Unity Catalog audit log | `changed_at`, `changed_by`, `by_compiler`, `change`, `object_name`, `detail`, `outcome` (`done`, `denied`, `failed`) |
 | `entitlement_changes` | version of a user's entitlement | `governance.user_entitlement_history` | `user_principal`, `change_type`, `valid_from`, `valid_to`, `is_current`, `personas_before`, `personas`, `granted_pairs_before`, `granted_pairs` |
 | `compile_runs` | compiler step run | `governance.compile_log` | `run_at`, `step`, `duration_s`, `run_by`, `detail`, `source_versions` |
@@ -1751,7 +1754,18 @@ Filter on `event_date` (or `start_time`) first: the audit log holds the whole ac
 
 ## Appendix E: test record
 
-@@TEST_RECORD@@
+What was run before this version was published, in a Databricks test workspace on Azure with the synthetic data, on
+both a serverless SQL warehouse and a Lakehouse Real-Time warehouse. Only what is listed here was run.
+
+| Date | What was run | Result |
+| :---- | :---- | :---- |
+| 2026-11-05 | a fresh clone of this repository, deployed from nothing: `poc.py deploy --verify` (correctness and exfiltration), the invariants, every expected value of sections 4.2–4.4 on both warehouses, sections 4.7–4.9 with their changes and undos, export rows that break the rules (loaded, checked, removed) | all passed: correctness 0 failures, exfiltration 0 failures, invariants 14 / 14, sections 4.2–4.4 33 / 33 on each warehouse, 4.7–4.9 19 / 19, bad rows as expected |
+| 2026-11-05 | the large data set (Appendix F) with `--associates 200000`: load, `act-as`, the Appendix F queries on both warehouses, the invariants, remove | the same answers on both warehouses; invariants 14 / 14. The default size (10,000,000 associates) was not run |
+| 2026-11-05 | after a code review of the audit layer, on the deployed copy: `poc.py deploy --verify`, the invariants (before and after), sections 4.2–4.4 on both warehouses, 4.7–4.9, the bad export rows, `tests/test_access.py` and `tests/test_security.py` on the Real-Time warehouse, `tests/test_audit.py` | all passed: correctness 0 failures on each warehouse, exfiltration 29 / 29 (and 0 failures on Real-Time), invariants 14 / 14, 4.2–4.4 33 / 33, 4.7–4.9 0 failures, bad rows as expected, audit test 15 / 15 (the query history caught up after 6–9 minutes, the audit log after 12–16) |
+| 2026-11-05 | the `auditors` setting by hand: a test principal listed, then removed | listed, it read the audit views but not `governance` or any secured view row; removed, the next compiler run revoked its grant |
+
+Not run as printed: section 4.10 (its queries were run, and `tests/test_audit.py` covers the same events). If a
+result differs from this guide, open an issue.
 
 ## Appendix F: the large synthetic data set (optional)
 

diff --git a/README.md b/README.md
@@ -101,7 +101,7 @@ Remove everything with `python3 -I poc.py destroy --yes`.
 | `python3 -I poc.py destroy --yes` | remove everything the deploy created |
 | `python3 -I tests/test_audit.py` | the audit trail end to end: makes reads, refused attempts and a stray grant, then finds each in the audit views (waits for the system tables, up to 30 minutes) |
 | `python3 -I dbsql.py [--as <user>] [--rt] "SQL"` | run SQL as you, a test user or the compiler; `--rt` on the Real-Time warehouse |
-| `python3 -I large_data.py load \| act-as \| status \| remove --yes` | the optional large synthetic data set (docs/HOW_TO_RUN.md, Appendix F) |
+| `python3 -I large_data.py load \| act-as \| status \| compile \| users \| remove --yes` | the optional large synthetic data set (docs/HOW_TO_RUN.md, Appendix F) |
 
 ## Repository layout
 
@@ -131,6 +131,7 @@ Remove everything with `python3 -I poc.py destroy --yes`.
 | A person who has left (`assoc_dim.status`) | their records stay governed by their last hierarchy; their own login gets nothing | `terminated_statuses` |
 | Hierarchy types | market, region, department, reporting line | `SCOPE_NODE` in the compiler |
 | Who may read the audit views | only the admin; list users, groups or service principal application IDs to give them USE SCHEMA and SELECT on `audit` (nothing else) | `auditors` |
+| What the audit views show of SQL text | string and number values in statements and error messages are shown as `?`, so values someone typed never reach the auditors; `full` shows the text as run | `audit_statement_text` |
 | How a view checks scope | `join` (the user's scope nodes joined once per query); `array` gives the same answers | `scope_check` |
 
 Bad export rows fail closed: a role row without a login, a login with two associate IDs, a persona with two scope types,
